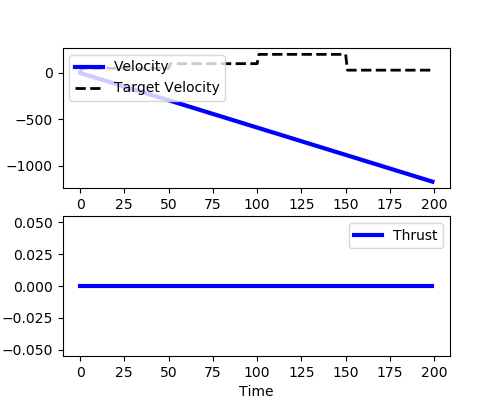
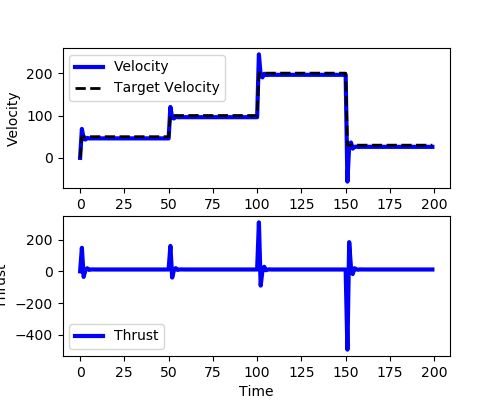
Added parameter fitting

diff --git a/basic_sim.py b/basic_sim.py
@@ -2,6 +2,7 @@ import argparse
 import numpy as np 
 import matplotlib.pyplot as plt 
 from scipy.integrate import odeint
+from scipy import optimize
 
 class Pod:
     def __init__(self, mass, friction_coeff, thrust):
@@ -38,8 +39,40 @@ class Simulation:
     def setup(self, applied_thrust, start_time, target_velocity):
         self.thrust_vector[int(start_time):] = applied_thrust
         self.target_velocity = target_velocity
+
+    def fit(self, parameters):
+        time_vector = np.linspace(0, self.total_time, self.no_steps)
+        thrust_vector = np.zeros(self.no_steps)
+        velocity_vector = np.zeros(self.no_steps)
+        target_vector = np.zeros(self.no_steps)
+        target_velocity = 70
+        initial_velocity = 0.0
+        error = 0.0
+        self.vehicle.pid_setup(self.no_steps, parameters[0], parameters[1], parameters[2], parameters[3])
+        for i in range(self.no_steps - 1):
+            if i == 50:
+                target_velocity = 100
+            if i == 100:
+                target_velocity = 200
+            if i == 150:
+                target_velocity = 30
+            
+            current_thrust = self.vehicle.get_thrust(target_velocity, initial_velocity, velocity_vector[i - 1], i)
+            #if current_thrust > 50.0:
+                #current_thrust = 50.0
+            #elif current_thrust < -50.0:
+                #current_thrust = -50.0
+            thrust_vector[i + 1] = current_thrust
+            velocity = odeint(self.vehicle.get_accelaration, initial_velocity, [0, self.time_step], args = (current_thrust,))
+            initial_velocity = velocity[-1]
+            velocity_vector[i + 1] = initial_velocity
+            target_vector[i + 1] = target_velocity
+            error = error + abs(target_velocity - initial_velocity)
+        return error
     
     def simulate(self):
+        params = optimize.fmin(self.fit, [0.0, 0.6, 0.3, 0.5])
+        self.vehicle.pid_setup(self.no_steps, params[0], params[1], params[2], params[3])
         plt.figure(1, figsize = (5, 4))
         plt.ion()
         plt.show()
@@ -53,7 +86,7 @@ class Simulation:
                 self.target_velocity = 30
             
             if self.pid_enable:
-                current_thrust = self.vehicle.get_thrust(self.target_velocity, self.initial_velocity, self.velocity_vector[i - 1], i, self.thrust_vector[i])
+                current_thrust = self.vehicle.get_thrust(self.target_velocity, self.initial_velocity, self.velocity_vector[i - 1], i)
                 #if current_thrust > 50.0:
                     #current_thrust = 50.0
                 #elif current_thrust < -50.0:
@@ -124,9 +157,10 @@ args = parser.parse_args()
 pod = Pod(args.pod[0], args.pod[1], args.pod[2])
 sim = Simulation(args.sim[0], 1, pod, False)
 sim.setup(args.sim[1], args.sim[2], args.sim[3])
+#print(optimize.fmin(sim.fit, [0.0, 0.6, 0.3, 0.5]))
 sim.simulate()
 
-#pod.pid_setup(args.sim[0] + 1)
-#sim_pid = Simulation(args.sim[0], 1, pod, True)
-#sim_pid.setup(args.sim[1], args.sim[2], args.sim[3])
-#sim_pid.simulate()    
+pod.pid_setup(args.sim[0] + 1)
+sim_pid = Simulation(args.sim[0], 1, pod, True)
+sim_pid.setup(args.sim[1], args.sim[2], args.sim[3])
+sim_pid.simulate()    
